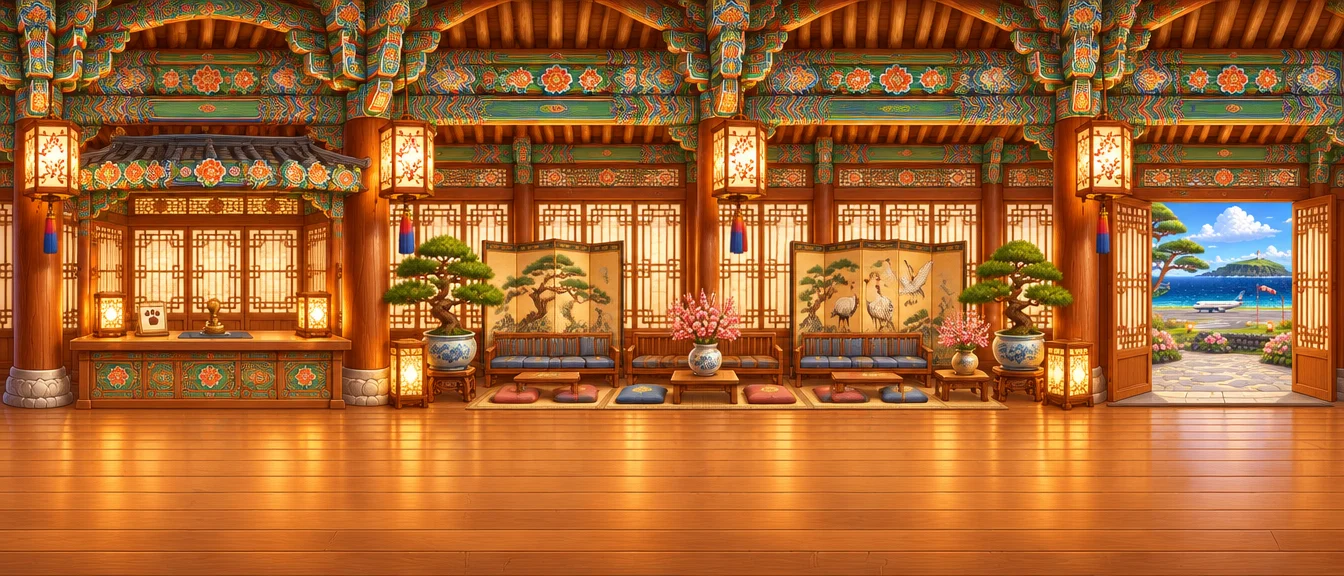
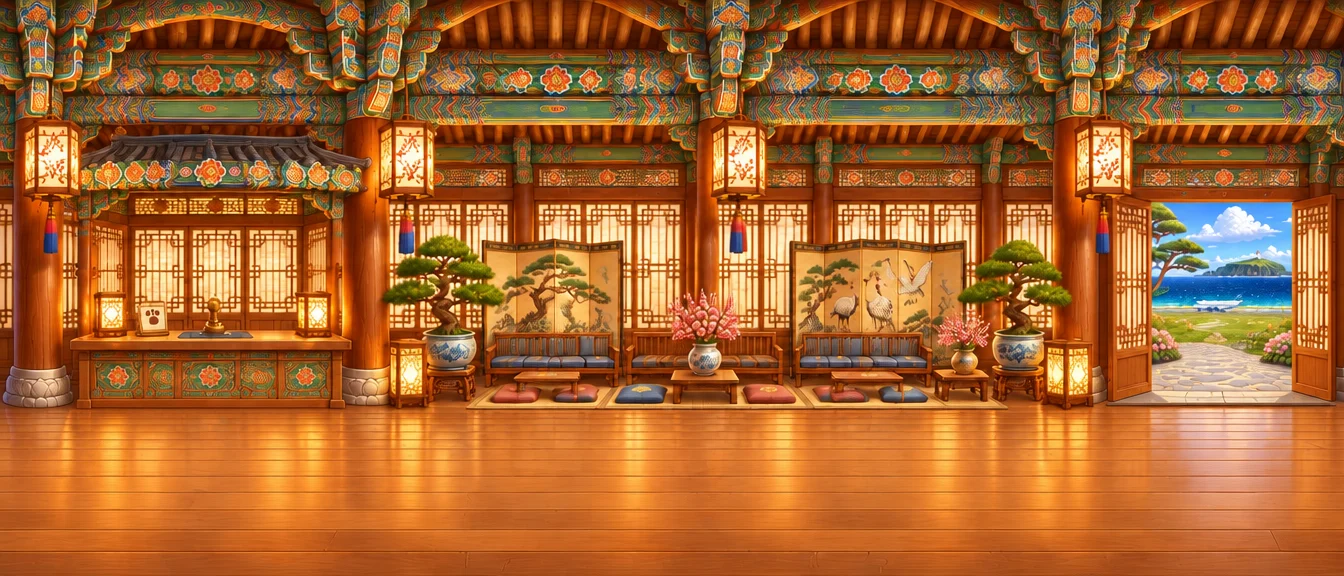
핫똑랜드 예시판: 작은 비행기로 착륙, 여권 제출 안내, 활주로 광장 왼쪽 마을 문, 5장 넓이 마을(깊은 길·연못 공원·나루터 바다), 꼬리댄스와 환영 잔치, 강아지 AI 대답, 안내판 제거
Claude-Session: https://claude.ai/code/session_015t7mweLLBzEFYGgsGmysr6

diff --git a/js/hotddok.js b/js/hotddok.js
@@ -1,10 +1,11 @@
 // 핫똑랜드 — 비행기로만 가는 강아지 섬. 한옥 공항 → 공항 안(입국 심사대) → 기와 마을(진돌카이막 장군 동상 · 상점 · 옷가게 · 훈련소 · 진돌카이저 궁 · 어두운 바다)
-// 지금은 예시판: 내리면 입국 심사대 앞 → 공항 안에서 마을 출구로 → 카피랜드만큼 넓은 마을(3장) → 진돌카이저 궁 안. 상점 · 퀘스트는 다음 차례
+// 지금은 예시판: 내리면 입국장(여권 제출) → 활주로 광장 → 왼쪽 끝 마을 문 → 넓은 마을(상점가 · 훈련소 · 연못 공원 · 궁 · 나루터) → 궁 안. 상점 · 퀘스트는 다음 차례
 import { h, toast, modal, holdBtn } from './ui.js';
 import { capy } from './capy.js';
 import { sfx, bgm } from './sound.js';
+import { askAI } from './social.js';
 
-const BG_W = 1344, BG_H = 576, TOWN_W = 3912, IMG = 'img/hd/', V = '?v=2';
+const BG_W = 1344, BG_H = 576, TOWN_W = 6480, AIR_W = 2628, IMG = 'img/hd/', V = '?v=3';
 // [이름, 견종, 상징품, 한마디]
 export const DOGS = [
   ['몽실', '말티즈 · 승무원', '🎀 복주머니', '핫똑랜드에 오신 것을 환영하옵니다, 폐하!'], ['송이', '말티즈 · 승무원', '🪭 부채', '폐하, 짐은 저희가 들겠사옵니다!'], ['곱슬', '푸들 · 기장', '🧭 나침반', '폐하를 모신 비행, 일생의 영광이었사옵니다!'],
@@ -25,49 +26,62 @@ const QUICK = { good: ['오늘도 귀엽다!', '너 정말 멋져!', '만나서 
 const REPLY = { good: ['헤헤, 폐하께 칭찬받았다! 꼬리가 멈추질 않아요!', '황금폐하가 그렇게 말씀해 주시다니… 멍!', '오늘 일기에 꼭 쓸 거예요!'], flat: ['네, 폐하! 마을은 마음에 드세요?', '소나무 그늘에서 쉬다 가세요.', '방금 뼈다귀국 먹었어요!'], bad: ['끼잉… 폐하, 너무하세요.', '으르르… 아무리 폐하라도 그건 좀.', '귀가 축 처져요…'] };
 const LEVELS = [[-100, '원수', '💢'], [-30, '사이 나쁨', '😠'], [-5, '서먹', '😐'], [10, '아는 사이', '🙂'], [30, '친구', '😊'], [50, '친한 친구', '🥰'], [80, '단짝', '💖']];
 const pick = a => a[Math.floor(Math.random() * a.length)];
+// 강아지마다 성격 · 싫어하는 것 · 말투 (AI 대답용). 좋아하는 것은 상징품
+const PERS = [['상냥하고 싹싹한 승무원', '무례한 손님', '극존칭 사극 말투(~하옵니다)'], ['꼼꼼하고 다정한 승무원', '지각', '극존칭 사극 말투(~하옵니다)'], ['듬직하고 허풍기 있는 기장', '난기류', '씩씩한 군인 말투(~입니다!)'],
+  ['천진난만한 막내', '혼자 있기', '아이 같은 반말'], ['흥 많은 풍물꾼', '조용한 것', '추임새 섞인 구수한 말투(얼쑤~)'], ['용맹하고 과묵한 사냥개', '겁쟁이', '짧고 굵은 말투'],
+  ['점잖은 양반', '경박한 것', '옛 선비 말투(~하오, ~이외다)'], ['넉살 좋은 귤 장수', '추위', '제주 사투리 섞인 말투(~수다, ~마씸)'], ['새침한 떡집 딸', '딱딱한 떡', '새침한 존댓말'],
+  ['명랑한 달리기 선수', '계단', '숨찬 듯 빠른 말투'], ['공주병 있는 멋쟁이', '헝클어진 털', '도도한 말투(~거든요?)'], ['순하고 느긋한 솜뭉치', '비 오는 날', '느릿느릿한 말투(~해요오)'],
+  ['호기심 많은 수다쟁이', '좁은 구멍', '말끝을 늘이는 말투(~라니까요~)'], ['우직한 장기 고수', '훈수 두는 것', '무뚝뚝한 아저씨 말투(~구먼)'], ['먹보 낙천가', '다이어트', '먹는 얘기로 새는 말투'],
+  ['작지만 성질 급한 싸움닭', '덩치 큰 개', '톡 쏘는 반말'], ['다정한 동네 형', '싸움', '따뜻하고 푸근한 말투'], ['장난꾸러기 놀이 대장', '심심한 것', '신난 말투(~하자!)'],
+  ['쿨하고 시크한 북쪽 개', '더위', '시큰둥한 반말'], ['항상 웃는 긍정왕', '찡그린 얼굴', '밝고 높은 말투(~예요!)'], ['시끄러운 나팔수', '조용히 하라는 말', '큰 소리로 외치는 말투(!!가 많다)'],
+  ['깐깐한 서예가', '삐뚤빼뚤한 글씨', '훈장님 말투(~하거라)'], ['수줍음 많은 아가씨', '큰 소리', '수줍은 존댓말(…을 자주 쓴다)'], ['잠 많은 귀부인', '방해받는 낮잠', '졸린 듯 나른한 말투'],
+  ['영리한 부메랑 명수', '멍하니 있기', '똑 부러지는 말투'], ['멋 부리는 선비', '얼룩이라는 말', '점잔 빼는 말투'], ['발 빠른 심부름꾼', '느림보', '급하게 줄여 말하는 말투'],
+  ['엄격하지만 속정 깊은 교관', '게으름', '군대 교관 말투(~한다, 실시!)'], ['점잖고 느긋한 어르신', '사자라고 놀리는 것', '느긋한 어르신 말투(~허허)'], ['단정한 새침데기', '흙탕물', '또박또박한 존댓말']];
+const RPERS = { king: ['위엄 있지만 손님을 반기는 왕', '무례', '임금 말투(~하오, 짐은~)'], gw: ['충직하고 과묵한 호위', '수상한 자', '짧은 무관 말투'], gb: ['날카롭고 의심 많은 호위', '거짓말', '짧은 무관 말투'] };
 export function openHotddok(o) {
   const { ctx } = o, demo = !!o.demo; let alive = true, raf = 0, zone = 'in', lastT = performance.now();
   const H = Math.max(280, Math.min(Math.round(innerHeight * 0.52), 520)), W1 = Math.round(H * BG_W / BG_H), DH = 84;
-  const Z = { air: { bg: 'air', w: W1, base: 3, span: 26, title: '🐶 핫똑공항 · 활주로' }, in: { bg: 'inn', w: W1, base: 3, span: 22, title: '🐶 핫똑공항 · 입국장' }, town: { bg: 'town', w: Math.round(H * TOWN_W / BG_H), base: 13, span: 10, title: '🏯 핫똑랜드 마을' }, pal: { bg: 'pal', w: W1, base: 3, span: 22, title: '👑 진돌카이저 궁' } };
-  const me = { x: Z.in.w * 0.2, y: 0.55 }, meEl = h('div', { class: 'fm-me ap-me', html: capy(ctx.capyOf(ctx.uid, { face: 'happy' })) });
+  const Z = { air: { bg: 'air', w: Math.round(H * AIR_W / BG_H), base: 3, span: 26, title: '🐶 핫똑공항 · 활주로' }, in: { bg: 'inn', w: W1, base: 3, span: 22, title: '🐶 핫똑공항 · 입국장' }, town: { bg: 'town', w: Math.round(H * TOWN_W / BG_H), base: 2, span: 21, title: '🏯 핫똑랜드 마을' }, pal: { bg: 'pal', w: W1, base: 3, span: 22, title: '👑 진돌카이저 궁' } };
+  const PIER = 0.764, PIER_END = 0.927; // 나루터: 길이 끝나고 바다 위로 뻗은 다리
+  const me = { x: Z.in.w * 0.34, y: 0.6 }, meEl = h('div', { class: 'fm-me ap-me', html: capy(ctx.capyOf(ctx.uid, { face: 'happy' })) });
   const npcs = { air: [], in: [], town: [], pal: [] }, keys = new Set(), rel = {}, mem = {}; // 친밀도 · 나눈 말(예시판은 이번 방문 동안만)
   const mk = (z, key, x, y, fixed, b) => { const royal = typeof key === 'string', src = royal ? key : 'd' + key, info = royal ? ROYAL[key] : DOGS[key], W = Z[z].w;
-    const n = { key, info, src, x: W * x, y, hx: W * x, tx: W * x, ty: y, wait: Math.random() * 3, fixed, b, say: null, sayT: 0 };
-    n.el = h('img', { class: 'hd-dog' + (royal ? ' royal' : ''), src: `${IMG}${src}.webp?v=1`, alt: info[0], style: { height: (key === 'king' ? DH * 1.2 : royal ? DH * 1.1 : DH) + 'px' }, onClick: () => meet(n) }); npcs[z].push(n); return n; };
-  mk('air', 2, 0.6, 0.85, 1); mk('in', 1, 0.13, 1, 1); mk('in', 0, 0.3, 0.9, 1); // 활주로 쪽엔 기장, 심사대엔 승무원 둘
-  DOGS.forEach((_, i) => i === 27 ? mk('town', 27, 0.455, 1.02, 1) : mk('town', i, 0.04 + 0.87 * ((i * 7) % 30 + 0.5) / 30, (i * 0.37) % 1)); // 30마리가 넓은 마을을 돌아다닌다(교관은 훈련소 앞)
-  mk('pal', 'king', 0.5, 0, 1, 37); mk('pal', 'gw', 0.39, 0.95, 1); mk('pal', 'gb', 0.61, 0.95, 1); // 왕은 궁 안 옥좌에, 좌우에 백구 · 흑구
-  const sign = (z, x, t, b) => h('span', { class: 'hd-sign', style: { left: Z[z].w * x + 'px', bottom: (b != null ? b : z === 'town' ? 1.5 : Z[z].base + Z[z].span + 21) + '%' } }, t); // 마을은 길 아래 꽃밭에, 실내는 머리 위에
-  const SIGNS = { in: [[0.2, '🛂 입국 심사대'], [0.54, '⬆ 마을로 가는 길'], [0.9, '활주로로 가는 길 ➡']], air: [[0.37, '⬆ 공항 안으로 가는 길'], [0.8, '✈ 타고 온 비행기']], pal: [[0.92, '마을로 나가는 길 ➡'], [0.5, '👑 옥좌', 62]],
-    town: [[0.012, '⬅ 핫똑공항 가는 길'], [0.085, '마을 입구 · 상점가 ➡'], [0.335, '⬅ 상점가 · 훈련소 ➡'], [0.58, '⬅ 훈련소 · 진돌카이저 궁 ➡'], [0.78, '진돌카이저 궁 ➡'], [0.837, '⬆ 궁 안으로 가는 길'], [0.91, '⬅ 궁 · 바다 ➡']] };
-  const plane = z => h('img', { class: 'hd-plane ' + z, src: 'img/air/plane.webp?v=4', alt: '' }); // 타고 온 비행기: 활주로에 그대로 서 있다
-  const worlds = {}; for (const z in Z) { worlds[z] = h('div', { class: 'fm-world ap-world hd-world', hidden: z !== zone, style: { width: Z[z].w + 'px', height: H + 'px', backgroundImage: `url(${IMG}${Z[z].bg}.webp${V})` } }, (z === 'air' || z === 'in') && plane(z), ...SIGNS[z].map(a => sign(z, ...a)), ...npcs[z].map(n => n.el)); }
+    const n = { key, info, src, pers: royal ? RPERS[key] : PERS[key], x: W * x, y, hx: W * x, tx: W * x, ty: y, wait: Math.random() * 3, fixed, b, say: null, sayT: 0 };
+    n.el = h('img', { class: 'hd-dog' + (royal ? ' royal' : ''), src: `${IMG}${src}.webp?v=1`, alt: info[0], style: { height: DH + 'px' }, onClick: () => meet(n) }); npcs[z].push(n); return n; }; // 왕도 밍땅꾸리 · 두두와 같은 키
+  mk('air', 2, 0.8, 0.85, 1); mk('in', 1, 0.13, 1, 1); mk('in', 0, 0.27, 0.95, 1); // 활주로 쪽엔 기장, 심사대엔 승무원 둘
+  DOGS.forEach((_, i) => i === 27 ? mk('town', 27, 0.292, 0.97, 1) : i === 26 ? mk('town', 26, 0.9, 0.93, 1) : mk('town', i, 0.03 + 0.72 * ((i * 7) % 30 + 0.5) / 30, (i * 0.37) % 1)); // 넓은 마을에 띄엄띄엄(교관은 훈련소 앞, 짚신은 나루터)
+  mk('pal', 'king', 0.5, 0, 1, 39); mk('pal', 'gw', 0.39, 0.95, 1); mk('pal', 'gb', 0.61, 0.95, 1); // 왕은 궁 안 옥좌에, 좌우에 백구 · 흑구
+  const worlds = {}; for (const z in Z) { worlds[z] = h('div', { class: 'fm-world ap-world hd-world', hidden: z !== zone, style: { width: Z[z].w + 'px', height: H + 'px', backgroundImage: `url(${IMG}${Z[z].bg}.webp${V})` } }, z === 'air' && h('img', { class: 'hd-plane air', src: 'img/air/plane.webp?v=4', alt: '' }), ...npcs[z].map(n => n.el)); } // 타고 온 비행기는 활주로에 그대로 서 있다
   const scroller = h('div', { class: 'fm-scroll' }, ...Object.values(worlds));
   const dpad = h('div', { class: 'dpad ap-dpad' }, [['U', '▲'], ['L', '◀'], ['D', '▼'], ['R', '▶']].map(([k, t]) => { const b = h('button', { class: 'dp ap-dp ap-' + k, 'aria-label': { L: '왼쪽', R: '오른쪽', U: '위', D: '아래' }[k] }, t); holdBtn(b, () => { keys.add(k); b.classList.add('held'); }, () => { keys.delete(k); b.classList.remove('held'); }); return b; }));
-  const aLab = h('small', null, '인사'), aBtn = h('button', { class: 'ap-ab ap-a', disabled: true, 'aria-label': 'A', onClick: () => { sfx('keyA'); act && act.go(); } }, aLab);
-  const bBtn = h('button', { class: 'ap-ab ap-b', 'aria-label': 'B', onClick: () => { sfx('keyB'); if (zone === 'pal') go('town', 0.837, 0.9); else if (zone === 'town' || zone === 'air') go('in', zone === 'town' ? 0.54 : 0.86, 0.6); else toast('카피랜드로 돌아가려면 심사대에서 말해요 ✈', 1800); } }, h('small', null, '나가기'));
+  const aLab = h('small', null, '인사'), aBtn = h('button', { class: 'ap-ab ap-a', disabled: true, 'aria-label': 'A', onClick: () => { sfx('keyA'); act && act.go(); } }, aLab); // 이동 · 입장은 모두 A 버튼으로
+  const bBtn = h('button', { class: 'ap-ab ap-b', 'aria-label': 'B', onClick: () => { sfx('keyB'); if (zone === 'pal') go('town', 0.703, 0.95); else if (zone === 'town') go('air', 0.05, 0.5); else if (zone === 'air') go('in', 0.86, 0.6); else toast('카피랜드로 돌아가려면 심사대에서 말해요 ✈', 1800); } }, h('small', null, '나가기'));
   const chatBtn = h('button', { class: 'ap-chat', 'aria-label': '말하기', onClick: () => { sfx('keyC'); npcs[zone].filter(n => Math.abs(n.x - me.x) < 260).slice(0, 4).forEach(n => say(n, n.info[3])); } });
   const scene = h('div', { class: 'fm-scene' }, scroller, h('div', { class: 'fm-pad ap-pad' }, dpad, h('div', { class: 'ap-acts' }, chatBtn, bBtn, aBtn)));
   const title = h('b', null, Z[zone].title);
   const wrap = h('div', { class: 'fm ap hd' }, h('div', { class: 'fm-top' }, title, demo && h('span', { class: 'ap-flight' }, '🧪 예시판'), h('button', { class: 'top-x', 'aria-label': '닫기', onClick: () => leave() }, '✕')), scene);
   document.body.append(wrap); bgm.start('hotddok'); worlds[zone].append(meEl);
-  const onKey = e => { const k = { ArrowLeft: 'L', ArrowRight: 'R', ArrowUp: 'U', ArrowDown: 'D' }[e.key] || ''; if (!k || document.querySelector('.modal-wrap')) return; e.preventDefault(); if (e.type === 'keydown') keys.add(k); else keys.delete(k); };
+  const onKey = e => { const k = { ArrowLeft: 'L', ArrowRight: 'R', ArrowUp: 'U', ArrowDown: 'D' }[e.key] || ''; if (!k) return; if (tailKey && e.type === 'keydown' && (k === 'L' || k === 'R')) { e.preventDefault(); return tailKey(k); } if (document.querySelector('.modal-wrap')) return; e.preventDefault(); if (e.type === 'keydown') keys.add(k); else keys.delete(k); };
   window.addEventListener('keydown', onKey); window.addEventListener('keyup', onKey);
   requestAnimationFrame(() => { scroller.scrollLeft = me.x - scroller.clientWidth / 2; });
 
-  let act = null, seenTown = false, seenKing = false;
+  let act = null, seenTown = false, seenKing = false, passed = false, tailKey = null, guideAt = 1;
   function go(z, x, y) { sfx('pop'); worlds[zone].hidden = true; zone = z; worlds[z].hidden = false; me.x = Z[z].w * x; me.y = y == null ? 0.3 : y; worlds[z].append(meEl); title.textContent = Z[z].title; scroller.scrollLeft = Math.max(0, me.x - scroller.clientWidth / 2);
     if (z === 'town' && !seenTown) { seenTown = true; welcome(); } if (z === 'pal' && !seenKing) { seenKing = true; setTimeout(() => alive && zone === 'pal' && say(npcs.pal[0], '오오! 전설의 카피랜드 황금폐하가 아니시오!', 4), 600); } }
   function say(n, t, sec = 3) { if (!n.say) { n.say = h('span', { class: 'ap-say' }); worlds[zone].append(n.say); } n.say.textContent = t; n.say.hidden = false; n.say.classList.remove('pop'); void n.say.offsetWidth; n.say.classList.add('pop'); n.sayT = sec; }
-  // 강아지를 누르면: 카피랜드 동물과 같은 구성(얼굴 · 말풍선 · 친밀도 · 빠른 말 세 가지 · 말하기 · 선물/거래/기억)
-  function meet(n) { sfx('pop'); const k = n.src, A = () => rel[k] || 0, lvOf = v => LEVELS.filter(l => l[0] <= v).pop() || LEVELS[0];
+  // 강아지를 누르면: 카피랜드 동물과 같은 구성(얼굴 · 말풍선 · 친밀도 · 빠른 말 세 가지 · 말하기 · 선물/거래/기억). 대답은 강아지마다 성격 · 말투에 맞춰 AI가 한다
+  function meet(n) { sfx('pop'); const k = n.src, A = () => rel[k] || 0, lvOf = v => LEVELS.filter(l => l[0] <= v).pop() || LEVELS[0]; let busy = false;
     const bubble = h('p', { class: 'so-bubble' }), meter = h('div', { class: 'so-meter' }), quick = h('div', { class: 'so-quick' }), input = h('input', { class: 'so-input', maxLength: 60, placeholder: `${n.info[0]}에게 하고 싶은 말`, enterKeyHint: 'send' });
     const tell = (t, cls = '') => { bubble.className = 'so-bubble ' + cls; bubble.textContent = t; };
     const draw = () => { const v = A(), lv = lvOf(v), nx = LEVELS.find(l => l[0] > v); meter.replaceChildren(h('b', null, `${lv[2]} ${lv[1]}`), h('i', null, h('u', { style: { width: (v + 100) / 2 + '%', background: v < 0 ? '#E5484D' : v >= 50 ? '#FF7FA8' : '#57C26B' } })), h('span', null, `${v}점${nx ? ` · ${nx[1]}까지 ${nx[0] - v}` : ''}`)); };
-    const talk = (t, kind) => { t = String(t || '').trim(); if (!t) return; input.value = ''; const d = kind === 'good' ? 2 : kind === 'bad' ? -3 : 1, r = pick(REPLY[kind || 'flat']); rel[k] = Math.max(-100, Math.min(100, A() + d)); (mem[k] = mem[k] || []).push({ s: t, r, d }); tell(r, d > 0 ? 'glad' : 'angry'); sfx(d > 0 ? 'coin' : 'bad'); const f = h('em', { class: 'so-float ' + (d > 0 ? 'up' : 'down') }, (d > 0 ? '+' : '') + d); meter.append(f); setTimeout(() => f.remove(), 1200); draw(); meter.append(f); drawQuick(); };
+    async function talk(t, kind) { t = String(t || '').trim().slice(0, 60); if (!t || busy) return; busy = true; input.value = ''; sfx('tock'); tell('…', 'wait'); const m = mem[k] = mem[k] || [], me0 = (ctx.me && ctx.me.name) || '폐하';
+      let r = await askAI(ctx.room, { name: n.info[0], trait: `${n.info[1]}. ${n.pers[0]}. 핫똑랜드라는 한국풍 강아지 섬에 산다. 상대는 전설의 '카피랜드 황금폐하'라서 "폐하"라고 부르며 우러러본다`, likes: n.info[2].replace(/^\S+\s/, ''), hates: n.pers[1], user: me0, a: A(), mem: `(말투 규칙: ${n.pers[2]}. 대답은 반드시 이 말투로, 한두 문장으로 한다)\n` + m.slice(-4).map(x => `${me0}: "${x.s}" → 나: "${x.r}"`).join('\n'), text: t }).catch(() => null);
+      if (!r) { const kd = kind || (/(귀엽|멋|최고|좋아|예쁘|반가|사랑|고마)/.test(t) ? 'good' : /(못생|바보|냄새|멍청|싫어|저리)/.test(t) ? 'bad' : 'flat'); r = { reply: pick(REPLY[kd]), delta: kd === 'good' ? 2 : kd === 'bad' ? -3 : 1 }; } // AI를 못 쓰면 낱말로 판정
+      busy = false; const d = r.delta; rel[k] = Math.max(-100, Math.min(100, A() + d)); m.push({ s: t, r: r.reply, d }); tell(r.reply, d > 0 ? 'glad' : d < 0 ? 'angry' : ''); draw(); if (d) { sfx(d > 0 ? 'coin' : 'bad'); const f = h('em', { class: 'so-float ' + (d > 0 ? 'up' : 'down') }, (d > 0 ? '+' : '') + d); meter.append(f); setTimeout(() => f.remove(), 1200); } drawQuick(); }
     const drawQuick = () => quick.replaceChildren(...['good', 'flat', 'bad'].map((kd, i) => { const t = pick(QUICK[kd]); return h('button', { class: 'so-q q' + i, onClick: () => talk(t, kd) }, t); }));
     const soon = t => () => toast(`${t}는 곧 열려요 🚧`, 1500);
-    const memBtn = () => { const m = mem[k] || []; modal({ title: `📜 ${n.info[0]}가 기억하는 말`, body: m.length ? h('div', { class: 'so-mem' }, m.slice().reverse().map(x => h('p', null, h('b', null, `나: ${x.s}`), h('span', null, `${n.info[0]}: ${x.r}`), h('em', { class: x.d > 0 ? 'up' : 'down' }, (x.d > 0 ? '+' : '') + x.d)))) : h('p', { class: 'center' }, '아직 나눈 말이 없어요.'), actions: [{ label: '닫기', primary: true }] }); };
+    const memBtn = () => { const m = mem[k] || []; modal({ title: `📜 ${n.info[0]}가 기억하는 말`, body: m.length ? h('div', { class: 'so-mem' }, m.slice().reverse().map(x => h('p', null, h('b', null, `나: ${x.s}`), h('span', null, `${n.info[0]}: ${x.r}`), h('em', { class: x.d > 0 ? 'up' : x.d < 0 ? 'down' : '' }, (x.d > 0 ? '+' : '') + x.d)))) : h('p', { class: 'center' }, '아직 나눈 말이 없어요.'), actions: [{ label: '닫기', primary: true }] }); };
+    input.addEventListener('keydown', e => { if (e.key === 'Enter') talk(input.value); });
     modal({ title: `${n.info[0]} · ${n.info[1]}`, body: h('div', { class: 'so-meet hd-meet' }, h('div', { class: 'so-face' }, h('span', null, h('img', { src: `${IMG}${k}.webp?v=1`, alt: '' })), bubble), meter, h('p', { class: 'so-fed' }, `상징품 ${n.info[2]} · 친한 친구(50점)가 되면 받아요`), quick,
       h('div', { class: 'so-say' }, input, h('button', { class: 'btn primary', onClick: () => talk(input.value) }, '말하기')),
       h('div', { class: 'so-acts' }, h('button', { class: 'btn', onClick: soon('🔍 퀘스트') }, '🔍 퀘스트'), h('button', { class: 'btn', onClick: soon('🎁 선물') }, '🎁 선물'), h('button', { class: 'btn', onClick: soon('🤝 거래') }, '🤝 거래'), h('button', { class: 'btn', onClick: memBtn }, '📜 기억'))), actions: [{ label: '닫기' }] });
@@ -75,39 +89,54 @@ export function openHotddok(o) {
   const soon = t => () => toast(`${t} — 곧 문을 열어요 🚧`, 1600);
   function statue() { modal({ title: '🗿 진돌카이막 장군 동상', body: [h('div', { class: 'ap-cnt hd-card' }, h('img', { class: 'hd-gen', src: 'img/quest/bg-h2.webp', alt: '' }), h('p', null, h('b', null, '핫똑랜드를 세운 개국 장군')), h('p', null, '“팔짱을 끼고 바다를 지켜본 지 어언 백 년.”'), h('p', { class: 'ap-cnt-n' }, '마을 강아지들은 지나갈 때마다 꼬리를 한 번씩 흔들어요'))], actions: [{ label: '닫기' }] }); }
   function counter() { modal({ title: '🛂 입국 심사대', body: [h('div', { class: 'ap-cnt hd-card' }, h('img', { src: `${IMG}d1.webp?v=1`, alt: '' }), h('p', null, '폐하, 카피랜드로 돌아가시겠사옵니까?'), demo && h('p', { class: 'ap-cnt-n' }, '🧪 예시판: 누르면 바로 카피공항으로 돌아가요'))], actions: [{ label: '더 구경하기' }, { label: '✈ 카피랜드로 돌아가기', primary: true, onClick: () => leave() }] }); }
+  // 나루터 낚시: 곁에 있던 강아지가 한마디 한다
+  function fish() { const n = npcs.town.slice().sort((a, b) => Math.abs(a.x - me.x) - Math.abs(b.x - me.x))[0]; say(n, '우리는 낚시를 하지 않아. 여기 바다에는 맛없는 생선들밖에 없어.', 4.5); toast('🎣 핫똑 나루터 낚시는 곧 열려요 🚧', 1800); }
   // 지금 자리에서 A 버튼으로 할 수 있는 일
   function findAct() { const x = me.x / Z[zone].w, up = me.y > 0.5;
-    if (zone === 'air') return Math.abs(x - 0.37) < 0.07 && up ? { t: '입장', go: () => go('in', 0.86, 0.5) } : near();
-    if (zone === 'in') return x > 0.8 ? { t: '활주로', go: () => go('air', 0.37, 0.9) } : Math.abs(x - 0.54) < 0.08 && up ? { t: '마을', go: () => go('town', 0.03, 0.5) } : x < 0.26 && up ? { t: '심사대', go: counter } : near();
-    if (zone === 'pal') return x > 0.86 ? { t: '마을', go: () => go('town', 0.837, 0.9) } : Math.abs(x - 0.5) < 0.09 && up ? { t: '알현', go: () => meet(npcs.pal[0]) } : near();
-    if (x < 0.012) return { t: '공항', go: () => go('in', 0.54, 0.6) };
-    if (up) { const b = [[0.1, 0.16, '동상', statue], [0.156, 0.196, '상점', soon('🪃 부메랑상회')], [0.21, 0.256, '옷가게', soon('👘 비단옷집')], [0.276, 0.318, '찻집', soon('🍵 솔향찻집')], [0.35, 0.396, '떡집', soon('🍡 꿀떡방')], [0.41, 0.51, '훈련소', soon('🎯 훈련소')], [0.815, 0.86, '입궁', () => go('pal', 0.84, 0.3)]].find(r => x >= r[0] && x <= r[1]); if (b) return { t: b[2], go: b[3] }; }
+    if (zone === 'air') return Math.abs(x - 0.683) < 0.035 && up ? { t: '입장', go: () => go('in', 0.86, 0.5) } : x < 0.06 ? { t: '마을', go: () => go('town', 0.012, 0.5) } : near();
+    if (zone === 'in') return x > 0.8 ? (passed ? { t: '나가기', go: () => go('air', 0.683, 0.9) } : { t: '나가기', go: () => { say(npcs.in[1], '폐하, 먼저 심사대에서 여권을 제출해 주시옵소서!', 3.5); } }) : x < 0.3 && up ? (passed ? { t: '심사대', go: counter } : { t: '여권 제출', go: stamp }) : near();
+    if (zone === 'pal') return x > 0.86 ? { t: '마을', go: () => go('town', 0.703, 0.95) } : Math.abs(x - 0.5) < 0.09 && up ? { t: '알현', go: () => meet(npcs.pal[0]) } : near();
+    if (x < 0.006) return { t: '공항', go: () => go('air', 0.05, 0.5) };
+    if (x > 0.9) return { t: '낚시', go: fish };
+    if (up) { const b = [[0.07, 0.094, '동상', statue], [0.095, 0.116, '상점', soon('🪃 부메랑상회')], [0.13, 0.152, '옷가게', soon('👘 비단옷집')], [0.168, 0.19, '찻집', soon('🍵 솔향찻집')], [0.213, 0.236, '떡집', soon('🍡 꿀떡방')], [0.255, 0.305, '훈련소', soon('🎯 훈련소')], [0.44, 0.5, '정자', () => toast('🏞 연못 정자 — 연꽃 향기에 바람이 시원해요', 1800)], [0.61, 0.632, '목욕집', soon('♨ 솔숲탕')], [0.69, 0.717, '입궁', () => go('pal', 0.84, 0.3)]].find(r => x >= r[0] && x <= r[1]); if (b) return { t: b[2], go: b[3] }; }
     return near(); }
   function near() { let best = null, bd = 46; for (const n of npcs[zone]) { const d = Math.hypot(n.x - me.x, (n.y - me.y) * 30); if (d < bd) { bd = d; best = n; } } return best ? { t: '인사', go: () => meet(best) } : null; }
-  // 입국 도장: 내리자마자 여권이 펼쳐지고 "입국" 도장이 쾅
-  function stamp() { const bub = h('span', { class: 'apv-say' }, '폐하, 여권을 받들겠사옵니다…'), ok = h('button', { class: 'btn primary apv-ok', onClick: () => { el.remove(); npcs.in.forEach((n, i) => setTimeout(() => alive && zone === 'in' && say(n, n.info[3], 3.5), 300 + i * 700)); } }, '🐾 핫똑랜드 입국하기');
+  // 입국 도장: 심사대에서 여권을 내면 펼쳐지고 "입국" 도장이 쾅
+  function stamp() { if (document.querySelector('.apv')) return; const bub = h('span', { class: 'apv-say' }, '폐하, 여권을 받들겠사옵니다…'), ok = h('button', { class: 'btn primary apv-ok', onClick: () => { el.remove(); say(npcs.in[0], '입국을 환영하옵니다, 폐하!', 3.5); setTimeout(() => alive && zone === 'in' && say(npcs.in[1], '오른쪽 문으로 나가시면 활주로이옵니다.', 4), 900); } }, '🐾 핫똑랜드 입국하기');
     const page = h('div', { class: 'apv-page' }, h('div', { class: 'apv-photo', html: capy(ctx.capyOf(ctx.uid, { face: 'smile' })) }), h('dl', null, h('dt', null, '국적'), h('dd', null, '카피랜드'), h('dt', null, '직위'), h('dd', null, '카피황금폐하'), h('dt', null, '도착지'), h('dd', null, '핫똑랜드')), h('div', { class: 'apv-stamp hd-in' }, h('b', null, '입국'), h('small', null, 'HOTDDOK LAND')));
-    const el = h('div', { class: 'apv' }, h('p', { class: 'apv-t' }, '🛂 핫똑랜드 입국 심사'), h('div', { class: 'apv-book' }, page, h('img', { class: 'apv-cover', src: 'img/quest/passport.webp', alt: '' })), h('div', { class: 'apv-crew' }, h('img', { src: `${IMG}d0.webp?v=1`, alt: '' }), h('img', { src: `${IMG}d2.webp?v=1`, alt: '' }), h('img', { src: `${IMG}d1.webp?v=1`, alt: '' }), bub), ok);
-    document.body.append(el); sfx('pop'); setTimeout(() => el.isConnected && sfx('boom'), 1950); setTimeout(() => { if (!el.isConnected) return; bub.textContent = '어서 오시옵소서, 황금폐하!!'; bub.classList.add('bow'); el.classList.add('done'); sfx('fanfare'); }, 2350); }
-  // 마을 첫 입장: 진돌카이저와 강아지들이 환영하는 그림 → 닫으면 여기저기서 "와!!!"
-  function welcome() { const el = h('div', { class: 'hd-wel', onClick: () => { el.remove(); wow(); } }, h('img', { src: `${IMG}welcome.webp?v=1`, alt: '' }), h('b', null, '🎉 핫똑랜드에 오신 것을 환영합니다!'), h('small', null, '진돌카이저 2세와 강아지들이 마중 나왔어요 · 눌러서 들어가기')); document.body.append(el); sfx('fanfare'); }
+    const el = h('div', { class: 'apv' }, h('p', { class: 'apv-t' }, '🛂 핫똑랜드 입국 심사'), h('div', { class: 'apv-book' }, page, h('img', { class: 'apv-cover', src: 'img/quest/passport.webp', alt: '' })), h('div', { class: 'apv-crew' }, h('img', { src: `${IMG}d0.webp?v=1`, alt: '' }), h('img', { src: `${IMG}d1.webp?v=1`, alt: '' }), bub), ok);
+    document.body.append(el); sfx('pop'); setTimeout(() => { if (el.isConnected) { sfx('boom'); passed = true; } }, 1950); setTimeout(() => { if (!el.isConnected) return; bub.textContent = '어서 오시옵소서, 황금폐하!!'; bub.classList.add('bow'); el.classList.add('done'); sfx('fanfare'); }, 2350); }
+  // 마을 첫 입장: 마중 그림 → 주인공이 망설이다 → 꼬리댄스(◀ ▶ 번갈아 연타) → 왕과 강아지들이 기뻐하는 그림 → 마을
+  function welcome() { const el = h('div', { class: 'hd-wel', onClick: () => { el.remove(); tailDance(); } }, h('img', { src: `${IMG}welcome.webp?v=1`, alt: '' }), h('b', null, '🎉 진돌카이저 2세와 강아지들이 마중 나왔어요!'), h('small', null, '눌러서 계속')); document.body.append(el); sfx('fanfare'); }
+  function tailDance() { let n = 0, last = '', done = false; const NEED = 26, front = capy(ctx.capyOf(ctx.uid, { face: 'shy' })), back = capy(ctx.capyOf(ctx.uid, { view: 'back' }));
+    const cap = h('div', { class: 'hd-tail-me', html: front }), msg = h('b', null, '이렇게까지 반겨 주다니… 어, 어떡하지…?'), sub = h('small', null, ' '), bar = h('u'), gauge = h('i', { class: 'hd-tail-g' }, bar);
+    const hit = k => { if (done || !cap.classList.contains('dance')) return; if (k !== last) { n += 1; last = k; sfx('tock'); } else n += 0.25; cap.classList.toggle('l', k === 'L'); cap.classList.toggle('r', k === 'R'); bar.style.width = Math.min(100, n / NEED * 100) + '%'; if (n >= NEED) finish(); };
+    const btn = k => { const b = h('button', { class: 'hd-tail-b', 'aria-label': k === 'L' ? '왼쪽' : '오른쪽' }, k === 'L' ? '◀' : '▶'); b.addEventListener('pointerdown', e => { e.preventDefault(); hit(k); }); return b; };
+    const el = h('div', { class: 'hd-tail' }, h('img', { class: 'hd-tail-bg', src: `${IMG}welcome.webp?v=1`, alt: '' }), msg, sub, cap, gauge, h('div', { class: 'hd-tail-btns' }, btn('L'), btn('R'))); document.body.append(el);
+    const dec = setInterval(() => { if (done || !el.isConnected) return clearInterval(dec); n = Math.max(0, n - 0.35); bar.style.width = Math.min(100, n / NEED * 100) + '%'; }, 200);
+    setTimeout(() => { if (!el.isConnected) return; cap.innerHTML = back; cap.classList.add('dance'); msg.textContent = '💃 꼬리댄스로 화답하자!'; sub.textContent = '◀ ▶ 를 번갈아 빠르게 눌러요'; el.classList.add('go'); tailKey = hit; sfx('pop'); }, 2000);
+    function finish() { done = true; tailKey = null; sfx('fanfare'); cap.classList.add('win'); setTimeout(() => { el.remove(); party(); }, 700); } }
+  function party() { const conf = h('div', { class: 'hd-conf' }); for (let i = 0; i < 44; i++) conf.append(h('i', { style: { left: Math.random() * 100 + '%', animationDelay: (Math.random() * 1.8).toFixed(2) + 's', animationDuration: (2 + Math.random() * 1.8).toFixed(2) + 's', background: ['#FFD54A', '#FF8FB1', '#9BE1FF', '#FFB347', '#B8F28A'][i % 5] } }));
+    const el = h('div', { class: 'hd-wel party', onClick: () => close() }, conf, h('img', { src: `${IMG}party.webp?v=1`, alt: '' }), h('b', null, '🎆 핫똑랜드 모두가 폐하를 환영합니다!'), h('small', null, '“와아아! 꼬리댄스 최고!!” · 눌러서 마을로')); let t = setTimeout(() => close(), 6000);
+    function close() { if (!el.isConnected) return; clearTimeout(t); el.remove(); wow(); } document.body.append(el); sfx('fanfare'); setTimeout(() => el.isConnected && sfx('coin'), 500); }
   function wow() { const list = npcs.town.slice().sort((a, b) => Math.abs(a.x - me.x) - Math.abs(b.x - me.x)); list.forEach((n, i) => { n.el.classList.add('wow'); setTimeout(() => n.el.classList.remove('wow'), 2600); if (i < WOW.length) setTimeout(() => alive && zone === 'town' && say(n, WOW[i], 2.6), i * 420); }); }
 
   let talkAt = 6;
-  function step(t) { if (!alive) return; const dt = Math.min(0.05, (t - lastT) / 1000); lastT = t; const zz = Z[zone], modalOn = !!document.querySelector('.modal-wrap,.apv,.hd-wel');
+  function step(t) { if (!alive) return; const dt = Math.min(0.05, (t - lastT) / 1000); lastT = t; const zz = Z[zone], W = zz.w, modalOn = !!document.querySelector('.modal-wrap,.apv,.hd-wel,.hd-tail');
     const dx = modalOn ? 0 : (keys.has('R') ? 1 : 0) - (keys.has('L') ? 1 : 0), dy = modalOn ? 0 : (keys.has('U') ? 1 : 0) - (keys.has('D') ? 1 : 0);
-    const W = zz.w; me.x = Math.max(W * 0.005, Math.min(W * 0.99, me.x + dx * 150 * dt)); me.y = Math.max(0, Math.min(1, me.y + dy * 1.1 * dt)); meEl.classList.toggle('walk', !!(dx || dy)); if (dx) meEl.classList.toggle('left', dx < 0);
+    me.x = Math.max(W * 0.004, Math.min(W * (zone === 'town' ? PIER_END : 0.99), me.x + dx * 150 * dt)); me.y = Math.max(0, Math.min(1, me.y + dy * 1.1 * dt)); if (zone === 'town' && me.x > W * PIER) me.y = Math.max(me.y, Math.min(0.88, 0.2 + (me.x / W - PIER) * 60)); // 나루터는 바다 위 좁은 다리
+    meEl.classList.toggle('walk', !!(dx || dy)); if (dx) meEl.classList.toggle('left', dx < 0);
     meEl.style.left = me.x + 'px'; meEl.style.bottom = `${zz.base + me.y * zz.span}%`; meEl.style.transform = `translateX(-50%) scale(${(1 - me.y * 0.14).toFixed(3)})`; meEl.style.zIndex = String(20 - Math.round(me.y * 10));
     const want = me.x - scroller.clientWidth / 2; if (Math.abs(scroller.scrollLeft - want) > 4 && (dx || dy)) scroller.scrollLeft += (want - scroller.scrollLeft) * Math.min(1, dt * 6);
-    for (const n of npcs[zone]) { if (!n.fixed) { if (n.wait > 0) { n.wait -= dt; n.el.classList.remove('go'); if (n.wait <= 0) { n.tx = Math.max(W * 0.03, Math.min(W * 0.925, n.hx + (Math.random() - 0.5) * 520)); n.ty = Math.random(); } }
+    for (const n of npcs[zone]) { if (!n.fixed) { if (n.wait > 0) { n.wait -= dt; n.el.classList.remove('go'); if (n.wait <= 0) { n.tx = Math.max(W * 0.015, Math.min(W * 0.755, n.hx + (Math.random() - 0.5) * 560)); n.ty = Math.random(); } }
         else { const ex = n.tx - n.x, ey = (n.ty - n.y) * 60, d = Math.hypot(ex, ey); if (d < 3) n.wait = 1.5 + Math.random() * 4; else { n.x += ex / d * 34 * dt; n.y += ey / d * 34 * dt / 60; n.el.classList.add('go'); } } }
-      n.el.style.left = n.x + 'px'; n.el.style.bottom = `${n.b != null ? n.b : zz.base + n.y * zz.span}%`; n.el.style.zIndex = String(20 - Math.round(n.y * 10)); n.el.style.setProperty('--s', (1 - Math.min(1, n.y) * 0.14).toFixed(3));
-      if (n.say && !n.say.hidden) { if ((n.sayT -= dt) <= 0) n.say.hidden = true; else { n.say.style.left = n.x + 'px'; n.say.style.bottom = `calc(${n.b != null ? n.b : zz.base + n.y * zz.span}% + ${n.el.offsetHeight + 4}px)`; n.say.style.zIndex = '40'; } } }
-    if (!modalOn && (talkAt -= dt) <= 0) { talkAt = 4 + Math.random() * 4; const c = npcs[zone].filter(n => Math.abs(n.x - me.x) < 300); if (c.length) { const n = c[Math.floor(Math.random() * c.length)]; say(n, Math.random() < 0.5 ? n.info[3] : (zone === 'town' ? CHAT : WOW)[Math.floor(Math.random() * 6)]); } }
+      const bt = n.b != null ? n.b : zz.base + n.y * zz.span; n.el.style.left = n.x + 'px'; n.el.style.bottom = bt + '%'; n.el.style.zIndex = String(20 - Math.round(n.y * 10)); n.el.style.setProperty('--s', (1 - Math.min(1, n.y) * 0.14).toFixed(3));
+      if (n.say && !n.say.hidden) { if ((n.sayT -= dt) <= 0) n.say.hidden = true; else { n.say.style.left = n.x + 'px'; n.say.style.bottom = `calc(${bt}% + ${n.el.offsetHeight + 4}px)`; n.say.style.zIndex = '40'; } } }
+    if (zone === 'in' && !passed && !modalOn && (guideAt -= dt) <= 0) { guideAt = 5; say(npcs.in[1], '폐하, 이쪽 심사대에서 여권을 제출해 주시옵소서!', 3.6); setTimeout(() => alive && !passed && zone === 'in' && say(npcs.in[0], '심사대 앞에서 A 버튼이옵니다!', 3), 1200); } // 말티즈 승무원들이 여권 제출을 안내한다
+    if (!modalOn && zone !== 'in' && (talkAt -= dt) <= 0) { talkAt = 4 + Math.random() * 4; const c = npcs[zone].filter(n => Math.abs(n.x - me.x) < 300); if (c.length) { const n = pick(c); say(n, Math.random() < 0.5 ? n.info[3] : pick(zone === 'town' ? CHAT : WOW)); } }
     act = modalOn ? null : findAct(); if (aBtn.disabled === !!act) { aBtn.disabled = !act; aBtn.classList.toggle('ready', !!act); } if (act && aLab.textContent !== act.t) aLab.textContent = act.t;
     raf = requestAnimationFrame(step); }
   raf = requestAnimationFrame(step);
-  setTimeout(() => alive && stamp(), 700);
-  function leave() { if (!alive) return; alive = false; window.removeEventListener('keydown', onKey); window.removeEventListener('keyup', onKey); cancelAnimationFrame(raf); document.querySelectorAll('.modal-wrap,.apv,.hd-wel').forEach(m => m.remove()); wrap.remove(); o.onClose && o.onClose(); }
+  function leave() { if (!alive) return; alive = false; tailKey = null; window.removeEventListener('keydown', onKey); window.removeEventListener('keyup', onKey); cancelAnimationFrame(raf); document.querySelectorAll('.modal-wrap,.apv,.hd-wel,.hd-tail').forEach(m => m.remove()); wrap.remove(); o.onClose && o.onClose(); }
   return { close: leave };
 }

diff --git a/css/app.css b/css/app.css
@@ -3244,9 +3244,20 @@ img.kb-sic { width: 30px; height: 30px; object-fit: contain; display: block; mar
 /* 착륙: 하늘에서 핫똑공항 활주로로 서서히 */
 .ap-landbg { position: absolute; inset: 0; background: url(../img/hd/air.webp?v=1) 100% 50% / auto 100% no-repeat; opacity: 0; transition: opacity 1.6s ease-in-out; z-index: 1; } .ap-landbg.on { opacity: 1; }
 .ap-sky.landing .ap-cloud { transition: opacity 1s; opacity: 0 !important; }
-.ap-ride-rig.air.down { animation: none; z-index: 2; transition: left 4.2s cubic-bezier(.2,.6,.3,1), top 4.2s cubic-bezier(.3,0,.4,1), width 4.2s ease-in-out, rotate 4.2s ease-out; left: 66%; top: 61%; width: min(40%, 190px); rotate: 0deg; }
+.ap-ride-rig.air.small { animation: none; z-index: 2; transition: none; left: 30%; top: 34%; width: min(40%, 190px); rotate: 5deg; opacity: 0; } .ap-ride-rig.air.small.go { opacity: 1; left: 66%; top: 61%; rotate: 0deg; transition: left 3.6s cubic-bezier(.2,.6,.3,1), top 3.6s cubic-bezier(.3,0,.4,1), rotate 3.6s ease-out, opacity .5s; }
 .hd-sign { position: absolute; transform: translateX(-50%); z-index: 30; padding: 4px 9px; border-radius: 8px; background: #6B4423; color: #FFE9B8; border: 2px solid #3E2511; font: 900 11px/1.2 var(--head); white-space: nowrap; box-shadow: 0 2px 0 #3E2511; pointer-events: none; }
 
 .hd-plane { position: absolute; pointer-events: none; z-index: 1; filter: drop-shadow(0 3px 3px rgba(0,0,0,.2)); }
-.hd-plane.air { left: 71%; bottom: 39%; width: 17%; } .hd-plane.in { left: 88.2%; bottom: 44%; width: 7%; z-index: 0; }
+.hd-plane.air { left: 85%; bottom: 39%; width: 8.7%; }
 .hd-meet .so-face > span { display: block; } .hd-meet .so-face > span img { width: 88px; height: auto; display: block; }
+.hd-tail { position: fixed; inset: 0; z-index: 9990; background: #1a1236; display: flex; flex-direction: column; align-items: center; justify-content: center; gap: 10px; padding: 16px; overflow: hidden; touch-action: none; user-select: none; -webkit-user-select: none; }
+.hd-tail-bg { position: absolute; inset: 0; width: 100%; height: 100%; object-fit: cover; opacity: .32; filter: blur(2px); }
+.hd-tail > b { position: relative; font: 900 20px/1.25 var(--head); color: #FFE38A; text-shadow: 0 3px 0 #8A5A00; text-align: center; } .hd-tail > small { position: relative; color: #fff; font-size: 13px; min-height: 18px; }
+.hd-tail-me { position: relative; width: min(52vw, 210px); transform-origin: 50% 90%; transition: rotate .09s ease-out, translate .09s ease-out; animation: hdShy 1s ease-in-out infinite; } .hd-tail-me svg { width: 100%; display: block; }
+@keyframes hdShy { 50% { translate: 4px 0; rotate: 2deg; } }
+.hd-tail-me.dance { animation: none; } .hd-tail-me.dance.l { rotate: -16deg; translate: -14px 0; } .hd-tail-me.dance.r { rotate: 16deg; translate: 14px 0; } .hd-tail-me.win { animation: hdWow .35s ease-in-out 2; }
+.hd-tail-g { position: relative; width: min(74vw, 300px); height: 16px; border-radius: 10px; background: rgba(255,255,255,.22); border: 2px solid #FFE38A; overflow: hidden; visibility: hidden; } .hd-tail-g u { display: block; height: 100%; width: 0; background: linear-gradient(90deg, #FFB347, #FF7FA8); transition: width .12s linear; }
+.hd-tail-btns { position: relative; display: flex; gap: 26px; visibility: hidden; } .hd-tail.go .hd-tail-btns, .hd-tail.go .hd-tail-g { visibility: visible; }
+.hd-tail-b { width: 92px; height: 92px; border-radius: 50%; border: 4px solid #8B5A2B; background: #FFD98A; font-size: 38px; color: #5A3A1E; box-shadow: 0 6px 0 #8B5A2B; touch-action: none; } .hd-tail-b:active { translate: 0 4px; box-shadow: 0 2px 0 #8B5A2B; background: #FFB347; }
+.hd-wel.party img { animation: apvBook .5s cubic-bezier(.2,.9,.3,1.2) both, hdGlow 1.2s ease-in-out infinite alternate; } @keyframes hdGlow { to { box-shadow: 0 0 0 4px #1F2F6B, 0 0 38px 10px rgba(255,214,90,.75); } }
+.hd-conf { position: absolute; inset: 0; pointer-events: none; overflow: hidden; z-index: 2; } .hd-conf i { position: absolute; top: -12px; width: 9px; height: 14px; border-radius: 2px; animation: hdConf 3s linear infinite; } @keyframes hdConf { to { translate: 20px 105vh; rotate: 720deg; } }

diff --git a/js/airport.js b/js/airport.js
@@ -141,8 +141,8 @@ export function openAirport(o) {
       tick(); timer = setInterval(tick, 500); };
     // 3) 착륙: 구름이 걷히고 핫똑공항이 서서히 나타난다 → 활주로에 내려앉으면 핫똑랜드로
     let landed = false; const land = () => { if (landed || !el.isConnected) return; landed = true; clearInterval(timer); offBtn.remove(); landBtn.remove(); msg.textContent = `🛬 ${DEST} 도착!`; sub.textContent = '착륙하고 있어요…';
-      const bg = h('i', { class: 'ap-landbg' }); sky.prepend(bg); sky.classList.add('landing'); void bg.offsetWidth; bg.classList.add('on'); rig.style.rotate = '5deg'; setTimeout(() => { rig.classList.add('down'); rig.style.rotate = ''; }, 900);
-      setTimeout(() => { if (!el.isConnected) return; sfx('pop'); el.remove(); import('./hotddok.js').then(m => m.openHotddok({ ctx, demo, onClose: () => bgm.start('airport') })).catch(() => bgm.start('airport')); }, 5600); };
+      const bg = h('i', { class: 'ap-landbg' }); sky.prepend(bg); sky.classList.add('landing'); void bg.offsetWidth; bg.classList.add('on'); rig.classList.add('small'); void rig.offsetWidth; setTimeout(() => rig.classList.add('go'), 500); // 처음부터 작은 크기로 나타나 활주로에 내려 멈춘다
+      setTimeout(() => { if (!el.isConnected) return; sfx('pop'); el.remove(); import('./hotddok.js').then(m => m.openHotddok({ ctx, demo, onClose: () => bgm.start('airport') })).catch(() => bgm.start('airport')); }, 5200); };
     const landBtn = h('button', { class: 'btn sm', onClick: () => land() }, '🛬 바로 착륙 (예시판)');
     raf2 = requestAnimationFrame(run); }
   let lastT = performance.now(), tick = 0;

diff --git a/js/social.js b/js/social.js
@@ -179,7 +179,7 @@ export function judgeLocal(text, p) {
   const reply = b.length ? pick(LINES.bad) : hate ? pick(LINES.hate).replace(/\{w\}/g, hate) : like ? pick(LINES.like).replace(/\{w\}/g, like) : g.length ? pick(LINES.good) : pick(LINES.flat);
   return { reply, delta: Math.max(-10, Math.min(10, d)) };
 }
-async function askAI(room, body) {
+export async function askAI(room, body) {
   if (!PUSH_URL || isMock) return null;
   const ac = new AbortController(), t = setTimeout(() => ac.abort(), 9000);
   try { const r = await fetch(PUSH_URL, { method: 'POST', headers: { 'Content-Type': 'text/plain' }, body: JSON.stringify({ room, ai: body }), signal: ac.signal }); const j = await r.json(); return j && j.reply ? { reply: String(j.reply), delta: Math.max(-10, Math.min(10, Math.round(+j.delta || 0))), ai: true, by: j.by || '' } : null; }
